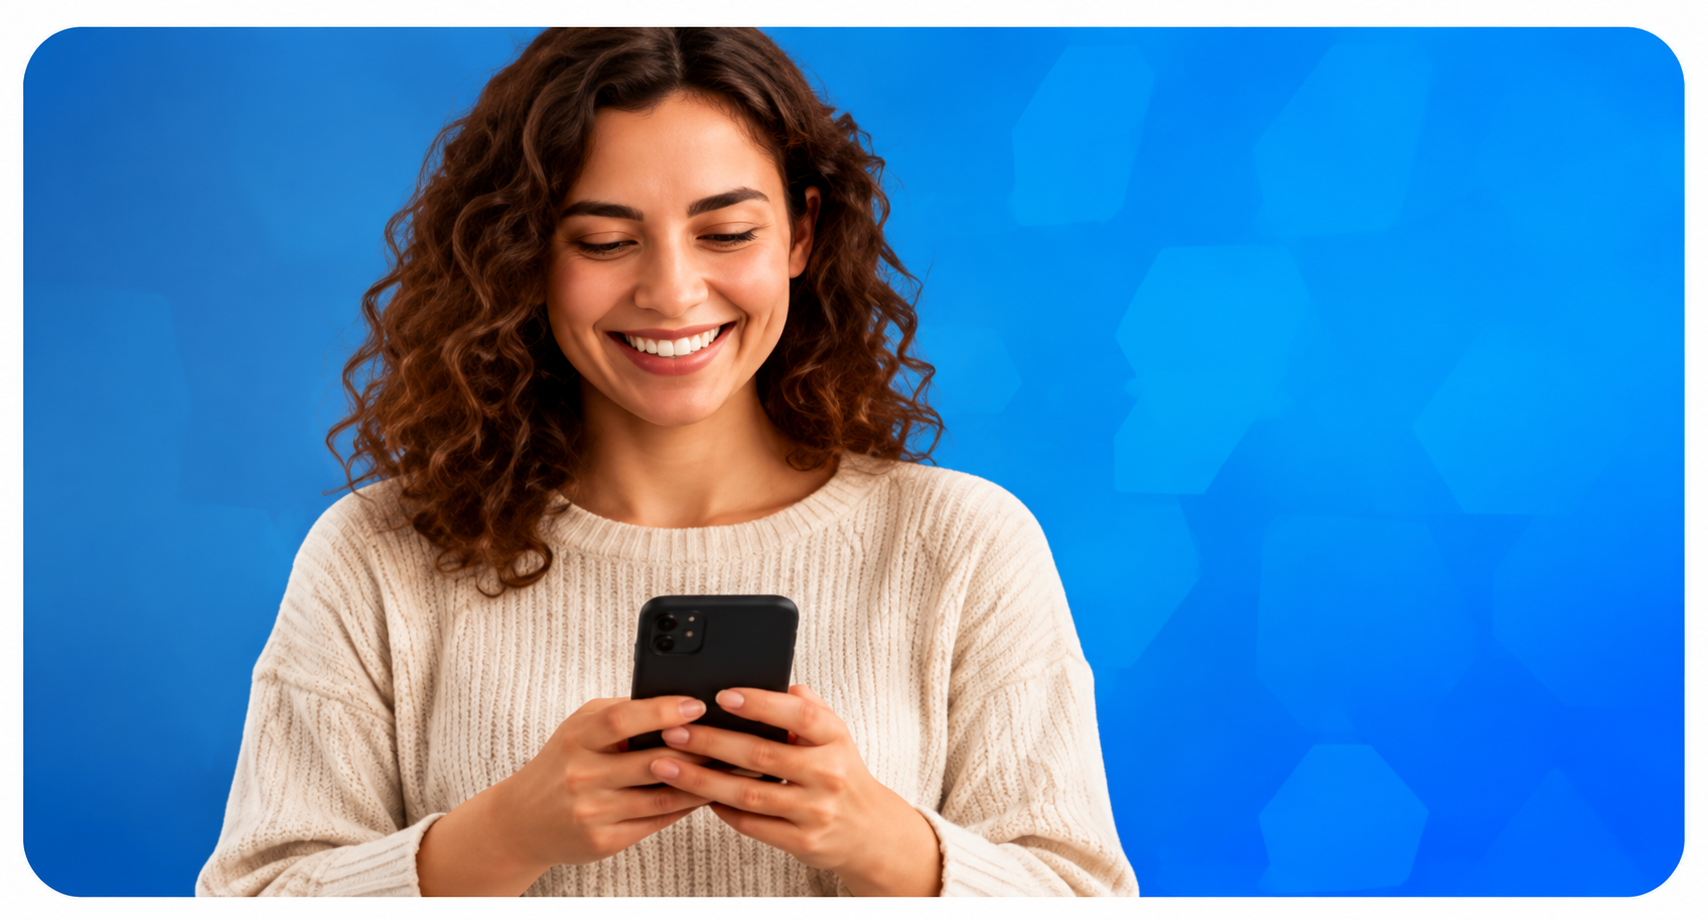
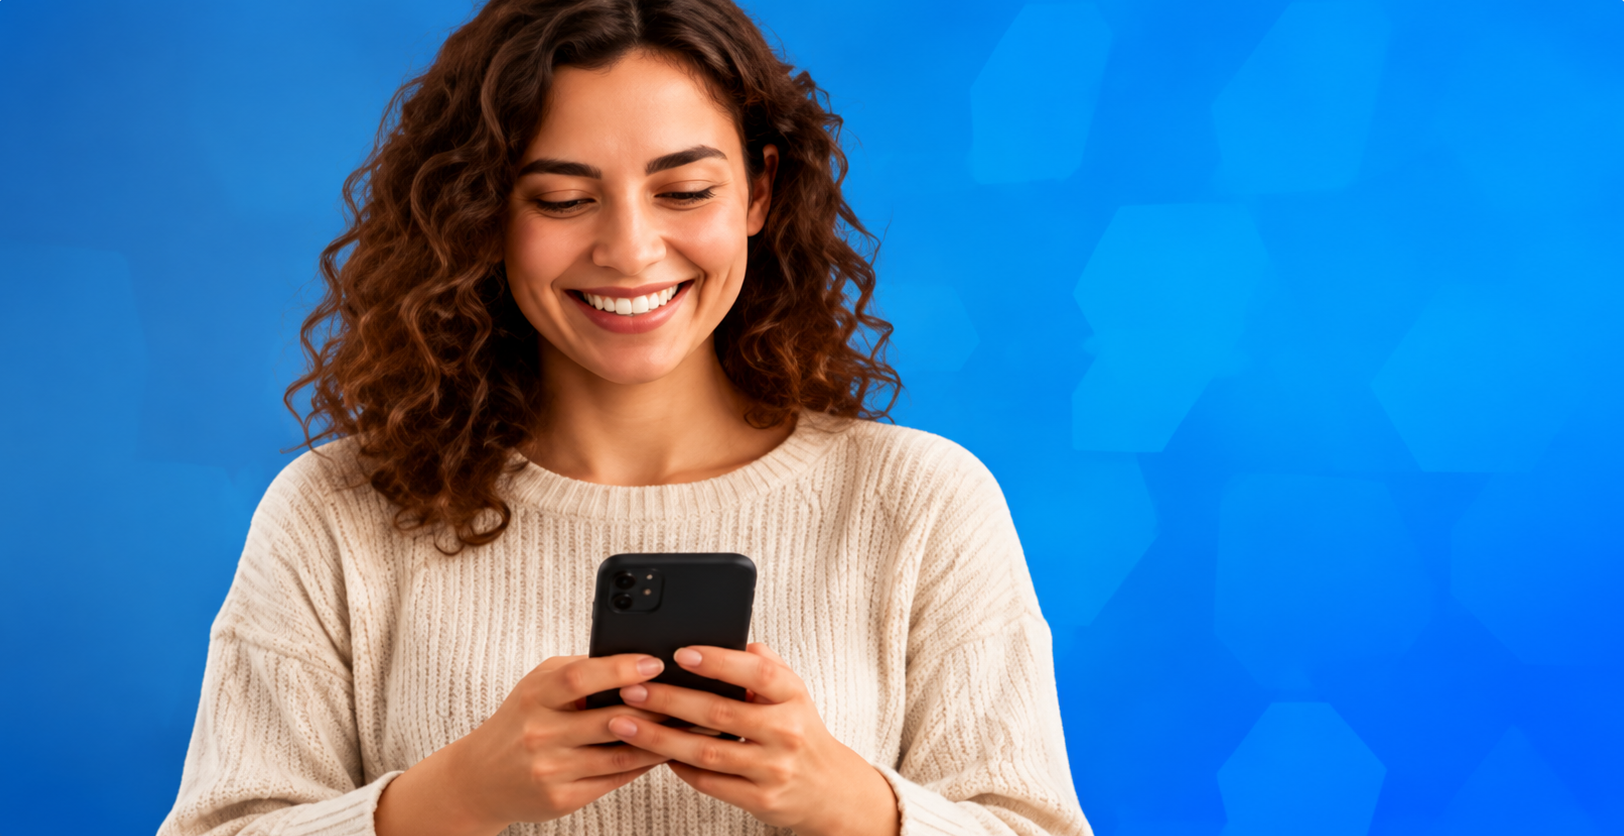
fix(campanha): arte do hero maior e sem moldura branca nas fotos
Dois relatos do fundador olhando a pagina local.

1. "A imagem ficou pequena dentro do hero." A causa nao era o tamanho do
   arquivo: era a divisao meio a meio das colunas. A arte e panoramica (2,27:1)
   e o bloco de texto e alto, entao ela ficava com 247px de altura contra 535px
   de texto ao lado. A coluna da arte passou a ser a maior (0,62fr contra 1fr),
   o contêiner foi de 1200px para 1360px e o titulo caiu de 48px para 42px no
   desktop. A arte foi de 562x247 para 771x340 — 37% maior — sem recorte, que
   comeria o cartao da borda direita.

2. "Ficou com faixa branca acima e abaixo" nas fotos dos dois lados. Mesma causa
   da arte da cidade: os PNGs vinham com moldura branca de ~42px, e como o card
   usa object-cover ancorado na altura, a moldura aparecia inteira. Recortado na
   FONTE, nao compensado no CSS. O inset foi medido ate os quatro cantos saírem
   claros — a deteccao por luminancia sozinha falhava na segunda foto, porque o
   sueter creme da modelo e quase branco e era confundido com moldura.

Tambem corrigido o `sizes` do hero (620px -> 800px), que ficou defasado com a
coluna nova e faria o navegador escolher uma fonte menor que a caixa real.

Verificado em 1352px e 375px: sem overflow horizontal, CTA do hero a 589px no
mobile, fotos com os cantos em verde/azul (sem branco), 61 testes verdes, tsc
limpo.

Revisão: leve — sem peça nova; recorte feito na fonte, sem CSS de compensação a
[…]

Changed region(s): [[0.0, 0.0, 1.0, 1.0], [0.8313, 0.8708, 0.8621, 0.933]]

diff --git a/apps/campanha/components/landing/Hero.tsx b/apps/campanha/components/landing/Hero.tsx
@@ -13,10 +13,9 @@ import { ARTE, CTA_MICROCOPY, HERO_BENEFICIOS } from "@/lib/landing-content"
  * traduzível nem indexável (WCAG 1.4.5) — e empurrava o primeiro campo do
  * formulário para ~1.400px de rolagem no mobile.
  *
- * Agora o H1 é texto. A imagem passa a ser ilustração de apoio: decorativa
- * (`alt=""`), porque tudo que ela dizia está escrito ao lado. No mobile ela vem
- * DEPOIS do CTA — a ordem do DOM é a ordem de leitura, e o botão precisa caber
- * na primeira tela.
+ * Agora o H1 é texto e a imagem é ilustração de apoio. No mobile ela vem DEPOIS
+ * do CTA — a ordem do DOM é a ordem de leitura, e o botão precisa caber na
+ * primeira tela.
  *
  * ⚠ Enquanto `ARTE.hero` for `false`, entra o placeholder com a mesma
  * proporção da arte final. Ver o passo a passo em lib/landing-content.ts.
@@ -51,26 +50,33 @@ export function Hero() {
       aria-labelledby="hero-titulo"
       className="bg-gradient-to-br from-primary to-navy-deep px-5 py-12 sm:px-6 xl:py-16"
     >
-      <div className="mx-auto grid max-w-[1200px] items-center gap-10 xl:grid-cols-[1.05fr_1fr] xl:gap-12">
+      {/*
+        A arte é panorâmica (2,27:1) e o bloco de texto é alto. Dividir a largura
+        meio a meio deixava a arte com ~247px de altura contra ~500px de texto ao
+        lado — pequena, cercada de vazio. Dando a ela a coluna maior (e um
+        contêiner mais largo), ela cresce sem precisar de recorte, que comeria o
+        cartão da borda direita.
+      */}
+      <div className="mx-auto grid max-w-[1360px] items-center gap-10 xl:grid-cols-[minmax(0,0.62fr)_1fr]">
         <div>
           <PrelaunchBadge className="mb-5" />
 
           <h1
             id="hero-titulo"
-            className="mb-4 font-display text-[30px] font-extrabold leading-[1.15] text-white sm:text-[38px] xl:text-[48px]"
+            className="mb-3 font-display text-[30px] font-extrabold leading-[1.15] text-white sm:text-[38px] xl:text-[42px]"
           >
             Tem algo parado?
             <br />
             <span className="text-accent">Faça isso virar dinheiro.</span>
           </h1>
 
-          <p className="mb-7 max-w-[540px] text-[15px] leading-relaxed text-white/85 xl:text-base">
+          <p className="mb-6 max-w-[540px] text-[15px] leading-relaxed text-white/85 xl:text-base">
             O ShareO vai conectar pessoas que têm coisas sem uso com{" "}
             <span className="font-semibold text-accent">quem precisa delas</span> — perto de
             você, de forma simples e segura.
           </p>
 
-          <ul className="mb-8 grid gap-5 sm:grid-cols-3">
+          <ul className="mb-7 grid gap-5 sm:grid-cols-3">
             {HERO_BENEFICIOS.map((beneficio) => (
               <li key={beneficio.titulo} className="flex gap-3 sm:flex-col sm:gap-2">
                 <span
@@ -100,7 +106,7 @@ export function Hero() {
           <img
             src="/campanha/hero-944.webp"
             srcSet="/campanha/hero-944.webp 944w, /campanha/hero-1888.webp 1888w"
-            sizes="(min-width: 1280px) 620px, 100vw"
+            sizes="(min-width: 1280px) 800px, 100vw"
             alt={ALT_HERO}
             // `eager` sim (é a ilustração do topo, não pode ficar para o fim),
             // mas SEM `fetchPriority="high"`: no mobile esta arte vem depois do
